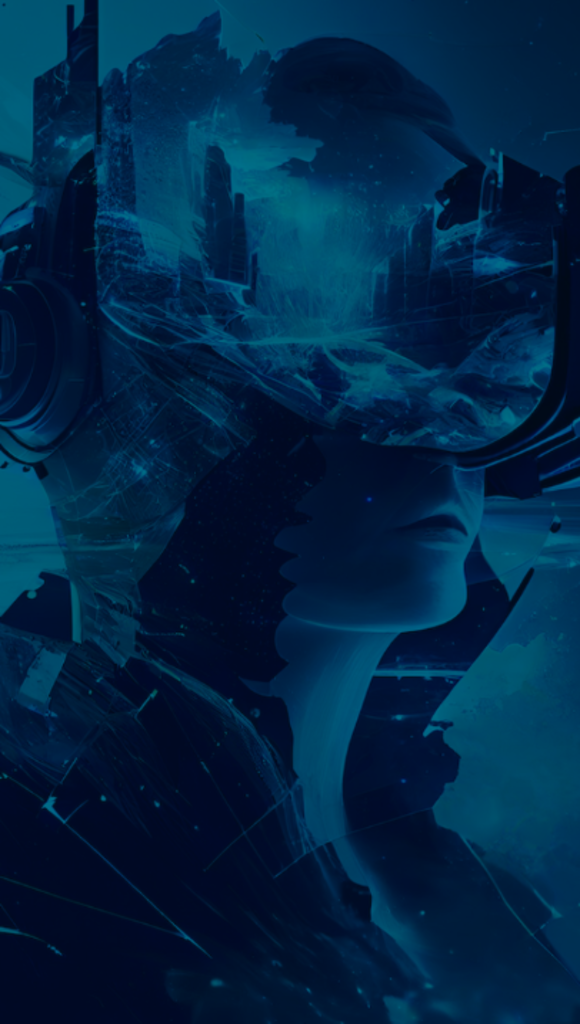
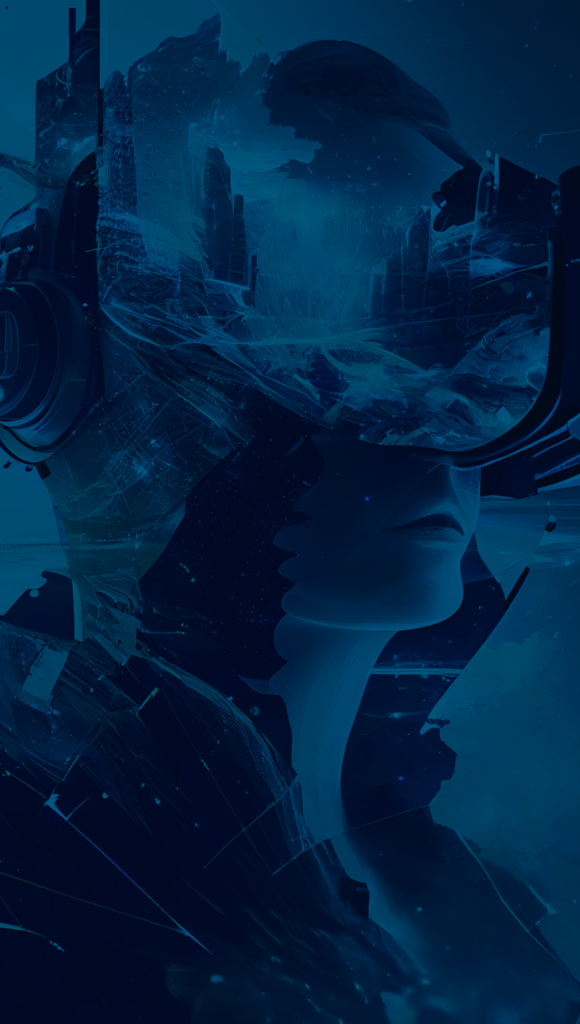
Add text editor with options in create template change auth photos add MUI-RTE Library

diff --git a/src/pages/Templates/[Id].tsx b/src/pages/Templates/[Id].tsx
@@ -3,16 +3,14 @@ import React from 'react';
 import {
   Grid,
   Typography,
-  Divider,
   Select,
   MenuItem,
   TextField,
   Button, Box
 } from '@mui/material';
 import { useRouter } from 'next/router';
+import { createTheme, ThemeProvider } from "@mui/material/styles";
 
-import StarIcon from '@mui/icons-material/Star';
-import ServiceSeoIcon from '@/assets/icons/serviceSeoIcon';
 import { useTranslation } from 'react-i18next';
 import { useFormik } from 'formik';
 import * as Yup from 'yup';
@@ -21,6 +19,7 @@ import PdfIcon from '@/assets/icons/pdfIcon';
 import DocIcon from '@/assets/icons/docIcon';
 import TextIcon from '@/assets/icons/textIcon';
 import CopyIcon from '@/assets/icons/copyIcon';
+import MUIRichTextEditor from "mui-rte";
 
 const Page = () => {
   const router = useRouter();
@@ -93,6 +92,34 @@ const Page = () => {
     }
   });
 
+  // @ts-ignore
+  const RTETheme = createTheme({
+    // @ts-ignore
+    overrides: {
+      MUIRichTextEditor: {
+        root: {
+          display: "flex",
+          justifyContent: "center",
+        },
+        editor: {
+          display: "flex",
+          justifyContent: "center",
+          width: 100
+        },
+      }
+    }
+  });
+
+  const save = (data: any) => {
+    console.log(typeof data, data);
+    // convertFromRaw(JSON.parse(data))
+    //   .getBlocksAsArray()
+    //   .map((block) => {
+    //     console.info("block: ", block);
+    //     console.log(block.getData());
+    //   });
+  };
+
   return (
     <>
     <Grid sx={{ display: "flex", flexDirection: "row", justifyContent: "space-evenly", my: 2 }}>
@@ -157,6 +184,13 @@ const Page = () => {
               </Button>
             </Grid>
           </Grid>
+          <ThemeProvider theme={RTETheme}>
+            <MUIRichTextEditor
+              label="Type something here..."
+              onSave={save}
+              inlineToolbar={true}
+            />
+          </ThemeProvider>
         </form>
       </Grid>
     </Grid>

diff --git a/src/layouts/dashboard/side-nav.tsx b/src/layouts/dashboard/side-nav.tsx
@@ -9,7 +9,7 @@ import {
   Typography
 } from '@mui/material';
 import React from 'react';
-import Logo from '../../assets/logo.png';
+import WhiteLogo from '../../assets/logo-white.png';
 import { Scrollbar } from '@/components/scrollbar';
 import { items } from './config';
 import { SideNavItem } from './side-nav-item';
@@ -57,7 +57,7 @@ export const SideNav = (props: { open: any; onClose: any; }) => {
               zIndex: (theme) => theme.zIndex.appBar + 350,
             }}
           >
-            <img src={Logo.src} className="App-logo" alt="logo" max-width={"100%"} />
+            <img src={WhiteLogo.src} className="App-logo" alt="logo" width={"100%"} />
           </Box>
         </Box>
         <Box
